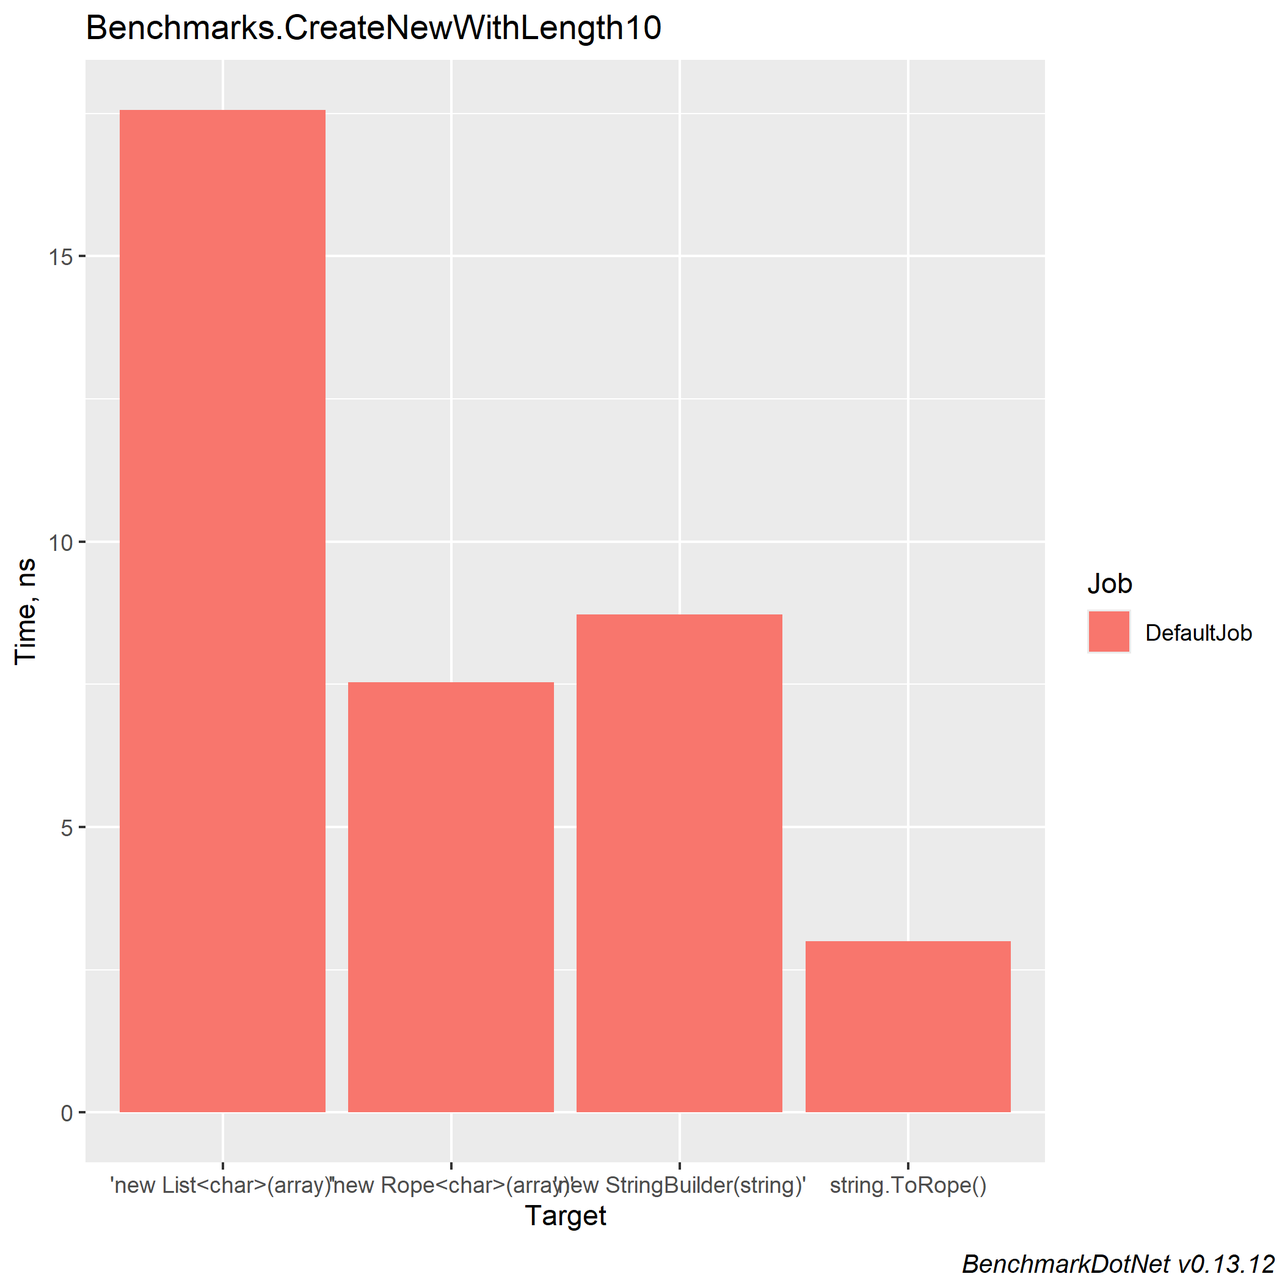
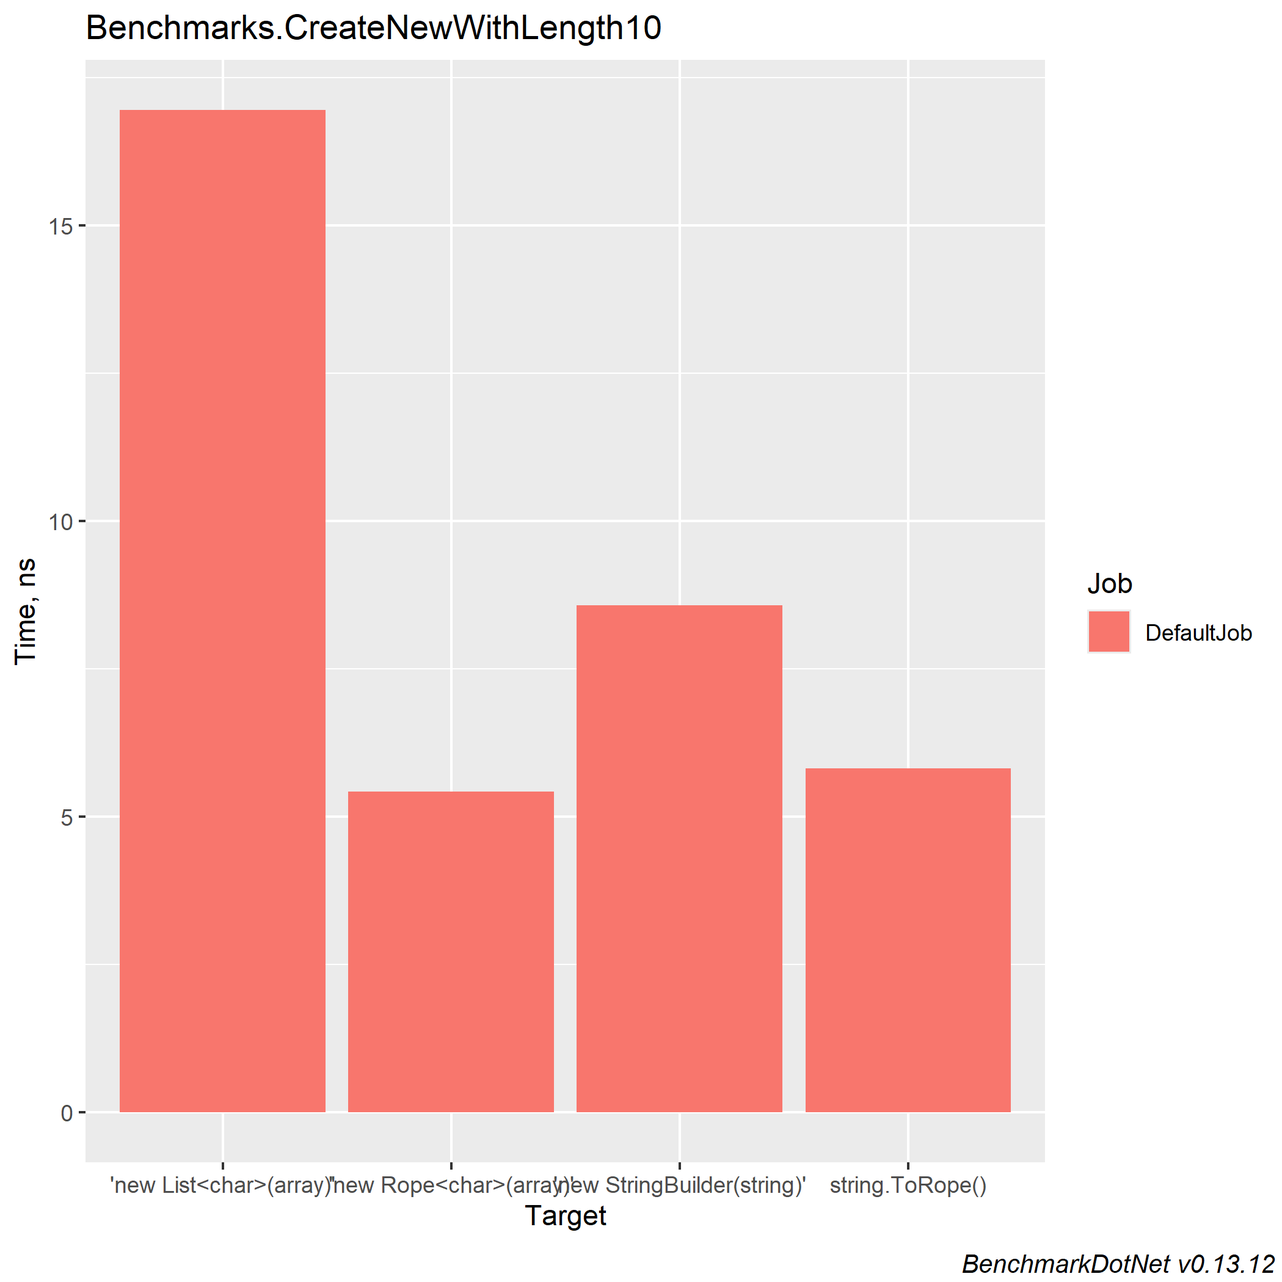
Cleanup and benchmark refresh

diff --git a/benchmarks/SplitThenConcat.cs b/benchmarks/SplitThenConcat.cs
@@ -12,19 +12,6 @@ public class SplitThenConcat
     public int EditCount;
 
     [Benchmark]
-    public void ListOfChar()
-    {
-        var s = new List<char>(BenchmarkData.LoremIpsum);
-        for (int i = 0; i < EditCount; i++)
-        {
-            s.RemoveRange(321, s.Count - 322); //  =  new StringBuilder(s.ToString()[..321]);
-            s.AddRange(BenchmarkData.LoremIpsum);
-        }
-
-        ////s.ToString();
-    }
-
-    [Benchmark]
     public void RopeOfChar()
     {
         var lorem = BenchmarkData.LoremIpsum.ToRope();
@@ -46,6 +33,19 @@ public class SplitThenConcat
         {
             s.Remove(321, s.Length - 322); //  =  new StringBuilder(s.ToString()[..321]);
             s.Append(BenchmarkData.LoremIpsum);
+        }
+
+        ////s.ToString();
+    }
+
+    [Benchmark]
+    public void ListOfChar()
+    {
+        var s = new List<char>(BenchmarkData.LoremIpsum);
+        for (int i = 0; i < EditCount; i++)
+        {
+            s.RemoveRange(321, s.Count - 322); //  =  new StringBuilder(s.ToString()[..321]);
+            s.AddRange(BenchmarkData.LoremIpsum);
         }
 
         ////s.ToString();

diff --git a/benchmarks/CreateNewWithLength10.cs b/benchmarks/CreateNewWithLength10.cs
@@ -8,14 +8,16 @@ namespace Benchmarks;
 [MemoryDiagnoser]
 public class CreateNewWithLength10
 {
+    private char[] array = new[] { '0', '1', '2', '3', '4', '5', '6', '7', '8', '9' };
+    
     [Benchmark(Description ="string.ToRope()")]
     public void RopeOfCharFromString() => _ = "0123456789".ToRope();
 
     [Benchmark(Description = "new Rope<char>(array)")]
-    public void RopeOfCharFromArray() => _ = new Rope<char>(new[] { '0', '1', '2', '3', '4', '5', '6', '7', '8', '9' });
+    public void RopeOfCharFromArray() => _ = new Rope<char>(this.array);
 
     [Benchmark(Description = "new List<char>(array)")]
-    public void ListOfCharFromArray() => _ = new List<char>(new[] { '0', '1', '2', '3', '4', '5', '6', '7', '8', '9' });
+    public void ListOfCharFromArray() => _ = new List<char>(this.array);
 
     [Benchmark(Description = "new StringBuilder(string)")]
     public void StringBuilder() => _ = new StringBuilder("0123456789");

diff --git a/tests/RopeConstructionTests.cs b/tests/RopeConstructionTests.cs
@@ -1,11 +1,8 @@
 namespace Rope.UnitTests;
+
 using System;
 using System.Collections;
-using System.Collections.Generic;
 using System.Linq;
-using System.Text;
-using System.Threading.Tasks;
-
 
 [TestClass]
 public class RopeConstructionTests

diff --git a/src/Compare/Diff.cs b/src/Compare/Diff.cs
@@ -22,7 +22,6 @@
 namespace Rope.Compare;
 
 using System;
-using System.Drawing;
 
 /// <summary>
 /// Record struct representing one diff operation.

diff --git a/README.md b/README.md
@@ -77,101 +77,136 @@ A comparison could be drawn between a Rope and a StringBuilder as they use a ver
 
 ## Performance - AddRange
 
-![AddRange](https://raw.githubusercontent.com/FlatlinerDOA/Rope/main/benchmarks/results/Benchmarks.AppendRange-barplot.png)
+![AddRange](/benchmarks/results/Benchmarks.AddRange-barplot.png)
 
 Working with a string of length - 32644 characters. - MaxLeafLength = ~32kb, Max Depth = 46
 
-| Method        | EditCount | Mean             | Error          | StdDev         | Median           | Gen0      | Gen1      | Gen2      | Allocated  |
-|-------------- |---------- |-----------------:|---------------:|---------------:|-----------------:|----------:|----------:|----------:|-----------:|
-| **Rope**          | **10**        |         **81.34 ns** |       **1.625 ns** |       **3.356 ns** |         **79.70 ns** |    **0.0473** |         **-** |         **-** |      **792 B** |
-| StringBuilder | 10        |     19,888.60 ns |     199.916 ns |     187.001 ns |     19,841.24 ns |   43.1213 |   35.2478 |         - |   723272 B |
-| List          | 10        |  1,238,461.90 ns |   8,023.175 ns |   7,504.883 ns |  1,237,642.38 ns |  498.0469 |  498.0469 |  498.0469 |  2098128 B |
-| **Rope**          | **100**       |      **6,326.66 ns** |      **46.375 ns** |      **41.110 ns** |      **6,318.72 ns** |    **2.1973** |    **0.0534** |         **-** |    **36792 B** |
-| StringBuilder | 100       |    298,139.65 ns |   5,226.588 ns |   4,080.576 ns |    298,538.06 ns |  395.9961 |  383.7891 |         - |  6640955 B |
-| List          | 100       |  9,485,481.04 ns |  75,729.841 ns |  70,837.740 ns |  9,492,607.81 ns |  734.3750 |  734.3750 |  734.3750 | 16781223 B |
-| **Rope**          | **500**       |    **126,232.79 ns** |     **783.746 ns** |     **694.770 ns** |    **126,060.33 ns** |   **39.3066** |    **6.8359** |         **-** |   **660096 B** |
-| StringBuilder | 500       |  6,498,547.88 ns | 109,273.449 ns |  96,868.066 ns |  6,494,527.34 ns | 2679.6875 | 2664.0625 |  945.3125 | 32947786 B |
-| List          | 500       | 43,939,108.48 ns | 527,171.657 ns | 493,116.695 ns | 44,072,354.55 ns | 2909.0909 | 2909.0909 | 2909.0909 | 67126462 B |
+| Method        | EditCount | Mean            | Error         | StdDev          | Gen0      | Gen1      | Gen2      | Allocated  |
+|-------------- |---------- |----------------:|--------------:|----------------:|----------:|----------:|----------:|-----------:|
+| **Rope**          | **10**        |        **322.6 ns** |       **1.56 ns** |         **1.30 ns** |    **0.0496** |         **-** |         **-** |      **832 B** |
+| StringBuilder | 10        |     20,424.1 ns |      46.48 ns |        41.20 ns |   43.1213 |   35.2478 |         - |   723272 B |
+| List          | 10        |  1,170,757.8 ns |  23,156.59 ns |    21,660.69 ns |  498.0469 |  498.0469 |  498.0469 |  2098128 B |
+| **Rope**          | **100**       |     **22,060.6 ns** |     **137.07 ns** |       **128.22 ns** |    **2.3499** |    **0.0610** |         **-** |    **39584 B** |
+| StringBuilder | 100       |    293,721.1 ns |   2,960.33 ns |     2,769.09 ns |  395.9961 |  383.7891 |         - |  6640952 B |
+| List          | 100       |  9,110,871.4 ns | 179,104.14 ns |   219,955.97 ns |  734.3750 |  734.3750 |  734.3750 | 16781223 B |
+| **Rope**          | **500**       |    **415,645.5 ns** |   **1,144.69 ns** |       **893.70 ns** |   **41.9922** |    **6.8359** |         **-** |   **702864 B** |
+| StringBuilder | 500       |  2,561,640.0 ns |  24,520.41 ns |    22,936.41 ns | 2687.5000 | 2671.8750 |  949.2188 | 32947836 B |
+| List          | 500       | 42,869,839.1 ns | 831,131.28 ns | 1,051,114.95 ns | 2916.6667 | 2916.6667 | 2916.6667 | 67126461 B |
+
+
+## Performance - AddRange (Immutable Collections)
+
+![AddRangeImmutable](/benchmarks/results/Benchmarks.AddRangeImmutable-barplot.png)
+
+
+| Method                 | EditCount | Mean             | Error           | StdDev          | Gen0       | Gen1       | Gen2       | Allocated   |
+|----------------------- |---------- |-----------------:|----------------:|----------------:|-----------:|-----------:|-----------:|------------:|
+| **Rope**                   | **10**        |         **356.9 ns** |         **6.63 ns** |         **6.20 ns** |     **0.0496** |          **-** |          **-** |       **832 B** |
+| ImmutableList
+.Builder | 10        |   7,700,966.8 ns |   152,284.06 ns |   232,553.85 ns |   992.1875 |   976.5625 |          - |  16633835 B |
+| ImmutableList          | 10        |   7,328,406.3 ns |   144,002.40 ns |   134,699.94 ns |   992.1875 |   976.5625 |          - |  16635411 B |
+| ImmutableArray         | 10        |     457,004.7 ns |     8,949.78 ns |    14,452.23 ns |   996.0938 |   996.0938 |   996.0938 |   4335446 B |
+| **Rope**                   | **100**       |      **22,539.8 ns** |       **126.04 ns** |       **117.90 ns** |     **2.3499** |     **0.0610** |          **-** |     **39584 B** |
+| ImmutableList
+.Builder | 100       | 214,688,974.5 ns | 4,289,220.24 ns | 8,365,794.66 ns | 11000.0000 | 10500.0000 |  2000.0000 | 152739984 B |
+| ImmutableList          | 100       | 206,931,377.8 ns | 4,000,014.25 ns | 3,741,615.81 ns | 11000.0000 | 10666.6667 |  2000.0000 | 152768739 B |
+| ImmutableArray         | 100       | 102,947,759.8 ns | 2,231,458.55 ns | 6,544,481.64 ns | 24400.0000 | 24400.0000 | 24400.0000 | 338327974 B |
 
 
 ##  Performance - InsertRange
 
-![InsertRange](https://raw.githubusercontent.com/FlatlinerDOA/Rope/main/benchmarks/results/Benchmarks.InsertRange-barplot.png)
+![InsertRange](/benchmarks/results/Benchmarks.InsertRange-barplot.png)
 
-| Method        | EditCount | Mean               | Error           | StdDev          | Gen0      | Gen1      | Gen2      | Allocated    |
-|-------------- |---------- |-------------------:|----------------:|----------------:|----------:|----------:|----------:|-------------:|
-| **RopeOfChar**    | **10**        |           **408.8 ns** |        **147.7 ns** |         **8.10 ns** |    **0.2151** |    **0.0005** |         **-** |      **3.52 KB** |
-| ListOfChar    | 10        |       691,128.2 ns |    306,483.6 ns |    16,799.40 ns |  499.0234 |  499.0234 |  499.0234 |   2052.84 KB |
-| StringBuilder | 10        |        18,397.2 ns |        350.5 ns |        19.21 ns |   43.1213 |   31.3416 |         - |    706.32 KB |
-| **RopeOfChar**    | **100**       |         **4,038.7 ns** |      **1,844.8 ns** |       **101.12 ns** |    **2.1515** |    **0.0305** |         **-** |     **35.16 KB** |
-| ListOfChar    | 100       |     9,995,754.2 ns |  4,670,207.9 ns |   255,989.85 ns |  734.3750 |  734.3750 |  734.3750 |  16420.48 KB |
-| StringBuilder | 100       |       286,050.8 ns |     48,643.1 ns |     2,666.29 ns |  395.9961 |  379.8828 |         - |    6485.3 KB |
-| **RopeOfChar**    | **1000**      |        **39,097.6 ns** |      **5,179.6 ns** |       **283.91 ns** |   **21.4844** |    **2.7466** |         **-** |    **351.56 KB** |
-| ListOfChar    | 1000      | 1,359,698,366.7 ns | 60,718,583.3 ns | 3,328,190.43 ns | 3000.0000 | 3000.0000 | 3000.0000 | 131361.66 KB |
-| StringBuilder | 1000      |    21,847,408.3 ns | 54,123,876.7 ns | 2,966,712.32 ns | 5406.2500 | 5375.0000 | 1625.0000 |  64275.69 KB |
+| Method        | EditCount | Mean             | Error         | StdDev        | Median           | Gen0      | Gen1      | Gen2      | Allocated    |
+|-------------- |---------- |-----------------:|--------------:|--------------:|-----------------:|----------:|----------:|----------:|-------------:|
+| **RopeOfChar**    | **10**        |         **1.400 μs** |     **0.0120 μs** |     **0.0094 μs** |         **1.402 μs** |    **0.1774** |         **-** |         **-** |      **2.92 KB** |
+| ListOfChar    | 10        |       741.599 μs |     2.4556 μs |     2.0506 μs |       741.928 μs |  499.0234 |  499.0234 |  499.0234 |   2052.84 KB |
+| StringBuilder | 10        |        18.175 μs |     0.1077 μs |     0.0955 μs |        18.165 μs |   43.1213 |   31.3416 |         - |    706.32 KB |
+| **RopeOfChar**    | **100**       |        **35.324 μs** |     **0.4283 μs** |     **0.3796 μs** |        **35.221 μs** |    **3.8452** |    **0.0610** |         **-** |      **63.3 KB** |
+| ListOfChar    | 100       |    10,949.444 μs |   217.4859 μs |   444.2661 μs |    10,756.000 μs |  734.3750 |  734.3750 |  734.3750 |  16420.48 KB |
+| StringBuilder | 100       |       315.408 μs |     4.5317 μs |     4.2390 μs |       314.411 μs |  395.9961 |  379.8828 |         - |    6485.3 KB |
+| **RopeOfChar**    | **1000**      |     **1,900.043 μs** |     **6.0456 μs** |     **5.0484 μs** |     **1,898.135 μs** |  **183.5938** |   **72.2656** |         **-** |   **3022.17 KB** |
+| ListOfChar    | 1000      | 1,433,052.443 μs | 5,397.8058 μs | 4,785.0142 μs | 1,432,979.650 μs | 3000.0000 | 3000.0000 | 3000.0000 | 131361.66 KB |
+| StringBuilder | 1000      |    24,700.136 μs |   905.6912 μs | 2,670.4509 μs |    25,727.847 μs | 5406.2500 | 5375.0000 | 1625.0000 |  64277.44 KB |
 
 
 ##  Performance - Split then Concat
 
-![Split then Concat](https://raw.githubusercontent.com/FlatlinerDOA/Rope/main/benchmarks/results/Benchmarks.SplitThenConcat-barplot.png)
+![Split then Concat](/benchmarks/results/Benchmarks.SplitThenConcat-barplot.png)
 
-| Method        | EditCount | Mean            | Error           | StdDev        | Gen0      | Gen1     | Gen2     | Allocated   |
-|-------------- |---------- |----------------:|----------------:|--------------:|----------:|---------:|---------:|------------:|
-| **ListOfChar**    | **10**        |    **541,450.0 ns** |    **99,808.39 ns** |   **5,470.83 ns** |   **41.0156** |  **41.0156** |  **41.0156** |   **256.73 KB** |
-| RopeOfChar    | 10        |        418.1 ns |        72.73 ns |       3.99 ns |    0.2580 |        - |        - |     4.22 KB |
-| StringBuilder | 10        |     15,773.0 ns |     8,684.35 ns |     476.02 ns |   23.5291 |  11.7493 |        - |   385.66 KB |
-| **ListOfChar**    | **100**       |  **4,610,185.9 ns** | **2,158,247.14 ns** | **118,300.81 ns** |   **39.0625** |  **39.0625** |  **39.0625** |   **259.55 KB** |
-| RopeOfChar    | 100       |      4,299.8 ns |     1,127.39 ns |      61.80 ns |    2.5787 |        - |        - |    42.19 KB |
-| StringBuilder | 100       |    164,727.5 ns |   306,656.89 ns |  16,808.90 ns |  199.9512 |  70.5566 |        - |  3278.66 KB |
-| **ListOfChar**    | **1000**      | **45,744,348.5 ns** | **9,522,133.89 ns** | **521,940.29 ns** |         **-** |        **-** |        **-** |   **288.79 KB** |
-| RopeOfChar    | 1000      |     44,982.3 ns |     2,172.21 ns |     119.07 ns |   25.8179 |        - |        - |   421.88 KB |
-| StringBuilder | 1000      |  2,007,108.4 ns | 2,792,873.37 ns | 153,086.81 ns | 1968.7500 | 498.0469 | 123.0469 | 32208.78 KB |
-
-##  Performance - Create New
-
-![Create New Empty](https://raw.githubusercontent.com/FlatlinerDOA/Rope/main/benchmarks/results/Benchmarks.CreateNewEmpty-barplot.png)
-![Create New With Length 10](https://raw.githubusercontent.com/FlatlinerDOA/Rope/main/benchmarks/results/Benchmarks.CreateNewWithLength10-barplot.png)
+| Method        | EditCount | Mean            | Error         | StdDev        | Gen0      | Gen1     | Gen2     | Allocated  |
+|-------------- |---------- |----------------:|--------------:|--------------:|----------:|---------:|---------:|-----------:|
+| **RopeOfChar**    | **10**        |        **573.1 ns** |       **4.15 ns** |       **3.88 ns** |    **0.0515** |        **-** |        **-** |      **864 B** |
+| StringBuilder | 10        |     17,382.5 ns |     347.14 ns |     439.02 ns |   23.5291 |  11.7493 |        - |   394912 B |
+| ListOfChar    | 10        |    521,531.2 ns |   3,077.00 ns |   2,727.68 ns |   41.0156 |  41.0156 |  41.0156 |   262894 B |
+| **RopeOfChar**    | **100**       |      **5,517.7 ns** |      **18.94 ns** |      **14.79 ns** |    **0.4807** |        **-** |        **-** |     **8064 B** |
+| StringBuilder | 100       |    153,816.0 ns |   2,649.38 ns |   2,212.35 ns |  199.9512 |  70.5566 |        - |  3357352 B |
+| ListOfChar    | 100       |  4,481,838.8 ns |  38,092.78 ns |  33,768.26 ns |   39.0625 |  39.0625 |  39.0625 |   265776 B |
+| **RopeOfChar**    | **1000**      |     **56,027.3 ns** |     **322.81 ns** |     **286.16 ns** |    **4.7607** |        **-** |        **-** |    **80064 B** |
+| StringBuilder | 1000      |  1,519,246.3 ns |  30,125.60 ns |  41,236.26 ns | 1968.7500 | 498.0469 | 123.0469 | 32981794 B |
+| ListOfChar    | 1000      | 44,472,061.7 ns | 370,549.50 ns | 346,612.23 ns |         - |        - |        - |   294593 B |
 
 
 ## Performance - Equals
 
-![Equals](https://raw.githubusercontent.com/FlatlinerDOA/Rope/main/benchmarks/results/Benchmarks.Equals-barplot.png)
+![Equals](/benchmarks/results/Benchmarks.Equals-barplot.png)
 
 | Method        | Length | Mean       | Error     | StdDev    | Allocated |
 |-------------- |------- |-----------:|----------:|----------:|----------:|
-| **Rope&lt;char&gt;**    | **10**     |   **4.683 ns** | **0.0831 ns** | **0.0694 ns** |         **-** |
-| StringBuilder | 10     |   5.094 ns | 0.0441 ns | 0.0391 ns |         - |
-| string        | 10     |   2.155 ns | 0.0129 ns | 0.0107 ns |         - |
-| **Rope&lt;char&gt;**    | **100**    |   **4.659 ns** | **0.0323 ns** | **0.0270 ns** |         **-** |
-| StringBuilder | 100    |   6.402 ns | 0.0521 ns | 0.0487 ns |         - |
-| string        | 100    |   4.050 ns | 0.0206 ns | 0.0193 ns |         - |
-| **Rope&lt;char&gt;**    | **1000**   |   **4.653 ns** | **0.0364 ns** | **0.0323 ns** |         **-** |
-| StringBuilder | 1000   |  27.302 ns | 0.0866 ns | 0.0810 ns |         - |
-| string        | 1000   |  28.123 ns | 0.0802 ns | 0.0750 ns |         - |
-| **Rope&lt;char&gt;**    | **10000**  |   **4.600 ns** | **0.0124 ns** | **0.0116 ns** |         **-** |
-| StringBuilder | 10000  | 265.757 ns | 0.5245 ns | 0.4907 ns |         - |
-| string        | 10000  | 275.796 ns | 0.4692 ns | 0.4160 ns |         - |
+| **Rope&lt;char&gt;**    | **10**     |   **4.640 ns** | **0.0256 ns** | **0.0239 ns** |         **-** |
+| StringBuilder | 10     |   5.057 ns | 0.0254 ns | 0.0237 ns |         - |
+| string        | 10     |   2.124 ns | 0.0047 ns | 0.0039 ns |         - |
+| **Rope&lt;char&gt;**    | **100**    |   **4.628 ns** | **0.0272 ns** | **0.0255 ns** |         **-** |
+| StringBuilder | 100    |   6.404 ns | 0.0120 ns | 0.0112 ns |         - |
+| string        | 100    |   4.102 ns | 0.0201 ns | 0.0188 ns |         - |
+| **Rope&lt;char&gt;**    | **1000**   |   **4.611 ns** | **0.0253 ns** | **0.0236 ns** |         **-** |
+| StringBuilder | 1000   |  27.342 ns | 0.1317 ns | 0.1232 ns |         - |
+| string        | 1000   |  28.369 ns | 0.1189 ns | 0.1112 ns |         - |
+| **Rope&lt;char&gt;**    | **10000**  |   **4.646 ns** | **0.0172 ns** | **0.0161 ns** |         **-** |
+| StringBuilder | 10000  | 274.231 ns | 1.8964 ns | 1.7739 ns |         - |
+| string        | 10000  | 276.374 ns | 1.0101 ns | 0.8434 ns |         - |
 
 
 ## Performance - IndexOf
 
-![IndexOf](https://raw.githubusercontent.com/FlatlinerDOA/Rope/main/benchmarks/results/Benchmarks.IndexOf-barplot.png)
+![IndexOf](/benchmarks/results/Benchmarks.IndexOf-barplot.png)
 
-| Method                      | Length | Mean         | Error        | StdDev     | Gen0   | Allocated |
-|---------------------------- |------- |-------------:|-------------:|-----------:|-------:|----------:|
-| **Rope**                        | **10**     |     **31.73 ns** |    **23.876 ns** |   **1.309 ns** | **0.0172** |     **288 B** |
-| **Rope**                        | **100**    |     **34.70 ns** |    **21.025 ns** |   **1.152 ns** | **0.0172** |     **288 B** |
-| **Rope**                        | **1000**   |     **78.29 ns** |    **29.446 ns** |   **1.614 ns** | **0.0172** |     **288 B** |
-| **Rope**                        | **10000**  |     **96.90 ns** |    **40.885 ns** |   **2.241 ns** | **0.0172** |     **288 B** |
-| **IndexOf**                     | **10**     |     **96.39 ns** |     **9.489 ns** |   **0.520 ns** | **0.0430** |     **720 B** |
-| &#39;IndexOf (Fragmented Find)&#39; | 10     |     92.93 ns |    17.273 ns |   0.947 ns | 0.0430 |     720 B |
-| **IndexOf**                     | **100**    |    **104.47 ns** |    **27.081 ns** |   **1.484 ns** | **0.0430** |     **720 B** |
-| &#39;IndexOf (Fragmented Find)&#39; | 100    |     93.17 ns |    13.728 ns |   0.752 ns | 0.0430 |     720 B |
-| **IndexOf**                     | **1000**   |    **493.07 ns** |    **89.003 ns** |   **4.879 ns** | **0.0420** |     **704 B** |
-| &#39;IndexOf (Fragmented Find)&#39; | 1000   |     88.98 ns |    36.926 ns |   2.024 ns | 0.0343 |     576 B |
-| **IndexOf**                     | **10000**  |    **876.67 ns** |   **111.080 ns** |   **6.089 ns** | **0.0763** |    **1280 B** |
-| &#39;IndexOf (Fragmented Find)&#39; | 10000  |  1,679.10 ns |    51.484 ns |   2.822 ns | 0.0916 |    1552 B |
-| **String**                      | **10**     |     **17.97 ns** |     **5.800 ns** |   **0.318 ns** | **0.0029** |      **48 B** |
-| **String**                      | **100**    |  **3,925.06 ns** |   **951.757 ns** |  **52.169 ns** | **0.0076** |     **224 B** |
-| **String**                      | **1000**   | **23,939.22 ns** |   **962.312 ns** |  **52.748 ns** | **0.0916** |    **2024 B** |
-| **String**                      | **10000**  | **36,962.96 ns** | **6,578.140 ns** | **360.570 ns** | **1.1597** |   **20024 B** |
+| Method                      | Length | Mean         | Error      | StdDev     | Median       | Gen0   | Allocated |
+|---------------------------- |------- |-------------:|-----------:|-----------:|-------------:|-------:|----------:|
+| **Rope**                        | **10**     |     **18.62 ns** |   **0.059 ns** |   **0.055 ns** |     **18.62 ns** | **0.0019** |      **32 B** |
+| **Rope**                        | **100**    |     **24.91 ns** |   **0.080 ns** |   **0.075 ns** |     **24.89 ns** | **0.0019** |      **32 B** |
+| **Rope**                        | **1000**   |     **55.89 ns** |   **0.101 ns** |   **0.089 ns** |     **55.89 ns** | **0.0019** |      **32 B** |
+| **Rope**                        | **10000**  |     **83.87 ns** |   **0.109 ns** |   **0.091 ns** |     **83.88 ns** | **0.0019** |      **32 B** |
+| **IndexOf**                     | **10**     |     **61.17 ns** |   **0.285 ns** |   **0.253 ns** |     **61.12 ns** | **0.0019** |      **32 B** |
+| &#39;IndexOf (Fragmented Find)&#39; | 10     |     62.37 ns |   1.252 ns |   1.391 ns |     63.50 ns | 0.0019 |      32 B |
+| **IndexOf**                     | **100**    |     **63.37 ns** |   **0.256 ns** |   **0.227 ns** |     **63.28 ns** | **0.0019** |      **32 B** |
+| &#39;IndexOf (Fragmented Find)&#39; | 100    |     59.36 ns |   0.144 ns |   0.135 ns |     59.33 ns | 0.0019 |      32 B |
+| **IndexOf**                     | **1000**   |    **588.18 ns** |   **1.596 ns** |   **1.493 ns** |    **588.58 ns** | **0.0191** |     **320 B** |
+| &#39;IndexOf (Fragmented Find)&#39; | 1000   |    103.18 ns |   0.439 ns |   0.411 ns |    103.14 ns | 0.0114 |     192 B |
+| **IndexOf**                     | **10000**  |  **1,158.36 ns** |   **2.464 ns** |   **2.305 ns** |  **1,157.89 ns** | **0.0629** |    **1056 B** |
+| &#39;IndexOf (Fragmented Find)&#39; | 10000  |  2,245.40 ns |  28.287 ns |  26.460 ns |  2,234.64 ns | 0.0763 |    1328 B |
+| **String**                      | **10**     |     **17.85 ns** |   **0.285 ns** |   **0.253 ns** |     **17.77 ns** | **0.0029** |      **48 B** |
+| **String**                      | **100**    |  **3,933.89 ns** |  **62.442 ns** |  **55.353 ns** |  **3,922.67 ns** | **0.0076** |     **224 B** |
+| **String**                      | **1000**   | **23,674.90 ns** | **205.594 ns** | **192.313 ns** | **23,758.94 ns** | **0.0916** |    **2024 B** |
+| **String**                      | **10000**  | **36,379.40 ns** | **435.649 ns** | **407.506 ns** | **36,422.10 ns** | **1.1597** |   **20024 B** |
+
+
+##  Performance - Create New
+
+![Create New Empty](/benchmarks/results/Benchmarks.CreateNewEmpty-barplot.png)
+
+| Method                | Mean      | Error     | StdDev    | Median    | Gen0   | Allocated |
+|---------------------- |----------:|----------:|----------:|----------:|-------:|----------:|
+| Rope&lt;char&gt;.Empty      | 0.0003 ns | 0.0006 ns | 0.0005 ns | 0.0000 ns |      - |         - |
+| &#39;new List&lt;char&gt;()&#39;    | 2.2120 ns | 0.0305 ns | 0.0255 ns | 2.2146 ns | 0.0019 |      32 B |
+| &#39;new StringBuilder()&#39; | 6.5696 ns | 0.1487 ns | 0.1712 ns | 6.6044 ns | 0.0062 |     104 B |
+
+
+![Create New With Length 10](/benchmarks/results/Benchmarks.CreateNewWithLength10-barplot.png)
+
+| Method                      | Mean      | Error     | StdDev    | Gen0   | Allocated |
+|---------------------------- |----------:|----------:|----------:|-------:|----------:|
+| string.ToRope()             |  5.815 ns | 0.1009 ns | 0.0943 ns | 0.0019 |      32 B |
+| &#39;new Rope&lt;char&gt;(array)&#39;     |  5.430 ns | 0.0174 ns | 0.0154 ns | 0.0019 |      32 B |
+| &#39;new List&lt;char&gt;(array)&#39;     | 16.955 ns | 0.1281 ns | 0.1135 ns | 0.0048 |      80 B |
+| &#39;new StringBuilder(string)&#39; |  8.575 ns | 0.0361 ns | 0.0338 ns | 0.0062 |     104 B |
